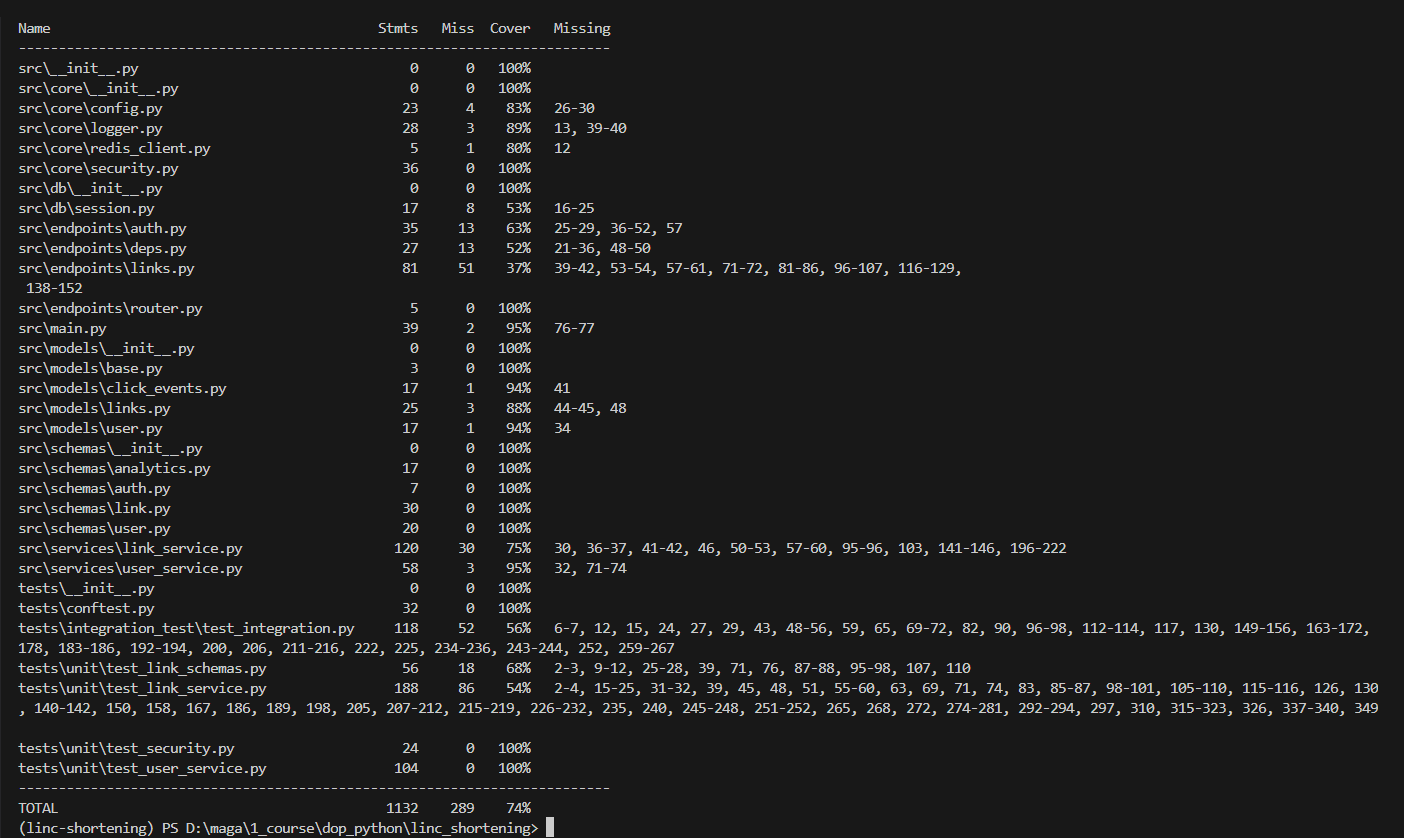
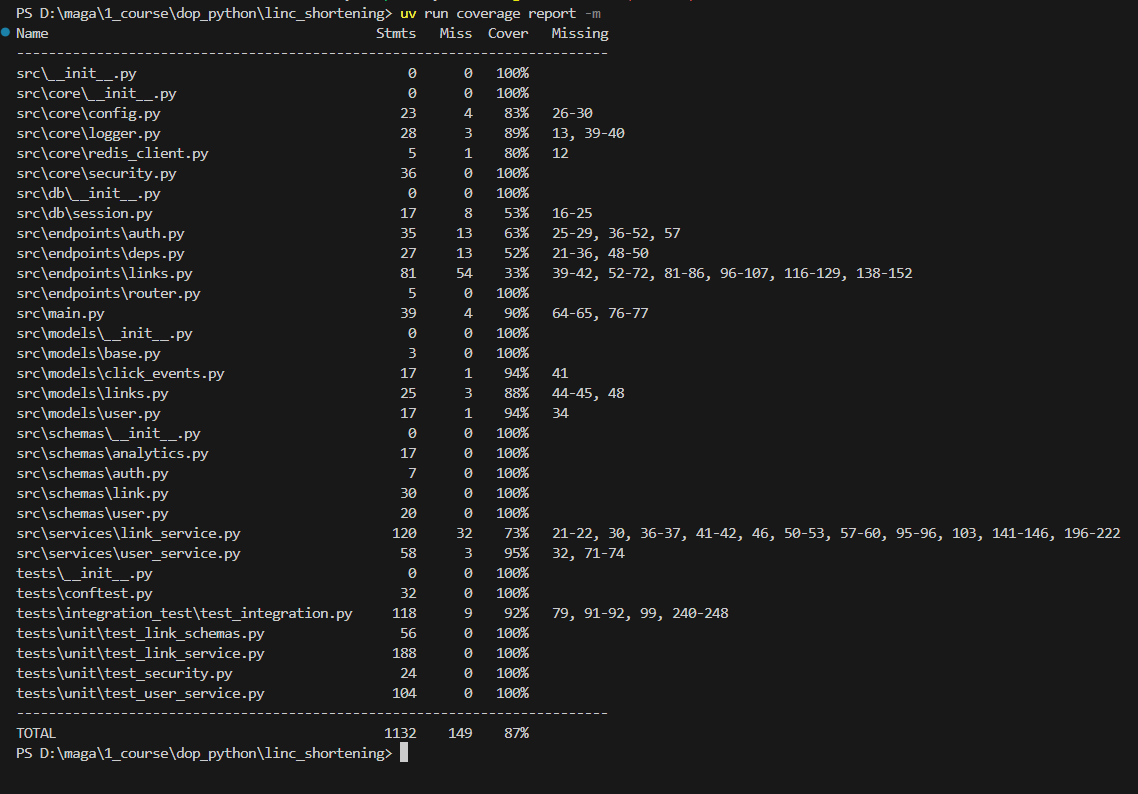
update readme

diff --git a/tests/conftest.py b/tests/conftest.py
@@ -1,4 +1,4 @@
-# tests/conftest.py
+
 import pytest
 import pytest_asyncio
 import os
@@ -11,13 +11,13 @@ from src.main import app
 from src.db.session import get_session
 from src.models.base import Base
 
-# 🔹 Импортируй модели ДО использования Base!
+
 from src.models.user import User  # noqa: F401
 from src.models.links import Link  # noqa: F401
 from src.models.click_events import ClickEvent  # noqa: F401
 
-# 🔹 Бери URL из env или используй дефолт для тестов
-# При запуске тестов задай TEST_DATABASE_URL или используй .env.loadtest
+
+
 TEST_DATABASE_URL = os.getenv(
     "TEST_DATABASE_URL",
     "postgresql+asyncpg://shortener_admin:admin@localhost:5434/shortener_load_test"
@@ -27,7 +27,7 @@ engine = create_async_engine(
     TEST_DATABASE_URL,
     echo=False,
     poolclass=NullPool,
-    pool_pre_ping=True,  # Проверяет соединение перед использованием
+    pool_pre_ping=True,  
 )
 
 TestingSessionLocal = async_sessionmaker(
@@ -41,15 +41,15 @@ TestingSessionLocal = async_sessionmaker(
 @pytest_asyncio.fixture(scope="function")
 async def db():
     """Асинхронная сессия для тестов"""
-    # 🔹 Создаём таблицы (если нет)
+
     async with engine.begin() as conn:
         await conn.run_sync(Base.metadata.create_all)
     
-    # 🔹 Возвращаем сессию
+
     async with TestingSessionLocal() as session:
         yield session
     
-    # 🔹 Очищаем данные после теста (но не удаляем таблицы)
+
     async with engine.begin() as conn:
         await conn.execute(text("TRUNCATE TABLE click_events, links, users RESTART IDENTITY CASCADE;"))
 
@@ -63,7 +63,7 @@ async def client(db: AsyncSession):
     
     app.dependency_overrides[get_session] = override_get_session
     
-    # 🔹 AsyncClient для асинхронных запросов
+
     async with AsyncClient(
         transport=ASGITransport(app=app),
         base_url="http://test"

diff --git a/README.md b/README.md
@@ -244,13 +244,102 @@ docker compose logs -f redis    # кэш
 
 
 ## 🧪 Тестирование
+Проект покрыт тестами: юнит-тесты, интеграционные и нагрузочные.  
+![img\locust.png](img\pocritie_unit_inter.png)
+
+Результаты нагрузочного тестирования
+![img\locust.png](img\locust.png)
+
+Подробные отчеты лежат в папках img и htmcov
+Выводу по тестированию - по нагрузочному сервер начал себя чувствовать при 1200 пользователях и rump up 20, что говорит либо об ограничениях тестирования на локальном устройстве, либо о недостаточной оптимизации бд (падал с 500 или 0 статусом)
+насчет юнит и интеграционного - покрытие 87%
 
 ### Юнит-тесты ()
 ```bash
+#  Запустить все юнит-тесты
 uv run pytest tests/unit/ -v
+
+# Запустить с покрытием
+uv run coverage run -m pytest tests/unit/
+uv run coverage report -m
+
+# Сгенерировать HTML-отчёт
+uv run coverage html
+Start-Process htmlcov/index.html
+```
+### Интеграционные тесты и нагрузочные
+
+Проверяют API-эндпоинты через AsyncClient с реальной PostgreSQL базой.
+
+**Подготовка:**
+
+```bash
+#для начала создай
+# .env.loadtest — для нагрузочных тестов 
+
+
+SECRET_KEY=test-secret-key-for-load-testing-only-min-32-chars-here
+ACCESS_TOKEN_EXPIRE_MINUTES=30
+ALGORITHM=HS256
+
+
+POSTGRES_USER=shortener_admin
+POSTGRES_PASSWORD=admin
+POSTGRES_DB=shortener_load_test
+POSTGRES_PORT=5434           
+
+
+DATABASE_URL=postgresql+asyncpg://shortener_admin:admin@postgres:5432/shortener_load_test
+REDIS_URL=redis://redis:6379/1 
+
+
+APP_NAME=LinkShortener-LoadTest
+DEBUG=True
+LOG_LEVEL=WARNING
+
 ```
 
 
+
+
+```bash
+# 1. Запусти тестовый стек Docker (если ещё не запущен)
+docker compose -f docker-compose.loadtest.yml up -d
+
+# 2. Создай тестовую БД (один раз)
+docker compose -f docker-compose.loadtest.yml exec postgres psql -U shortener_admin -d postgres -c "CREATE DATABASE shortener_load_test;"
+
+# 3. Примени миграции
+docker compose -f docker-compose.loadtest.yml exec app alembic upgrade head
+
+# 4. Проверь, что app работает
+curl http://127.0.0.1:8001/health
+
+#  Запустить все интеграционные тесты
+uv run pytest tests/integration_test/ -v
+
+
+#  Запустить с покрытием
+uv run coverage run -m pytest tests/integration_test/
+uv run coverage report -m
+
+# 5. Запусти Locust 
+uv run locust -f tests/load/locustfile.py --host http://127.0.0.1:8001
+
+# 6. Очисти после тестов
+docker compose -f docker-compose.loadtest.yml down -v
+
+
+###если падает с проблемой нет бд *500 то проверь Таблицы
+# Проверь, что БД существует:
+docker compose -f docker-compose.loadtest.yml exec postgres psql -U shortener_admin -d postgres -c "\l"
+
+# Если нет shortener_load_test — создай:
+docker compose -f docker-compose.loadtest.yml exec postgres psql -U shortener_admin -d postgres -c "CREATE DATABASE shortener_load_test;"
+
+# Примени миграции:
+docker compose -f docker-compose.loadtest.yml exec app alembic upgrade head
+```
 
 ---
 
